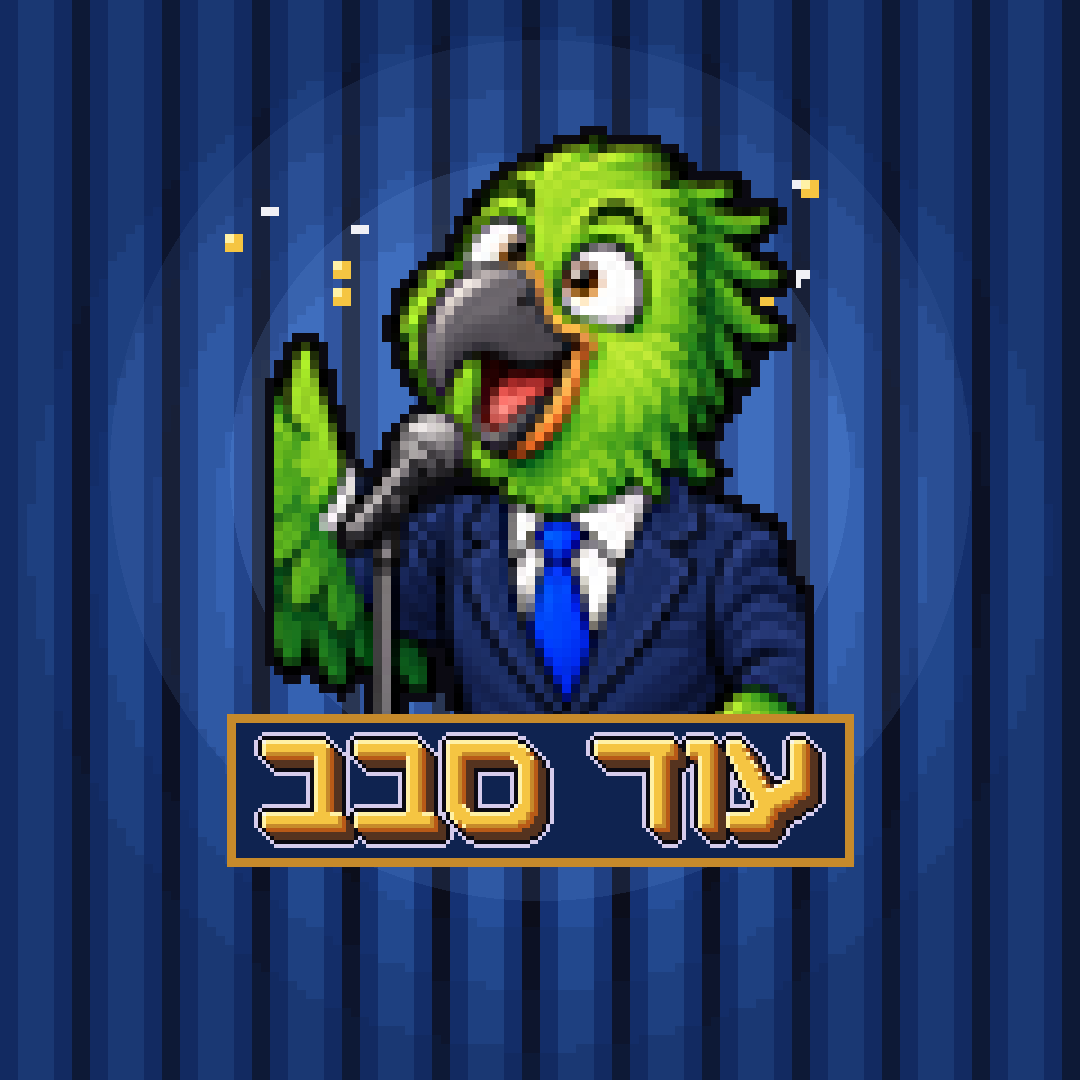
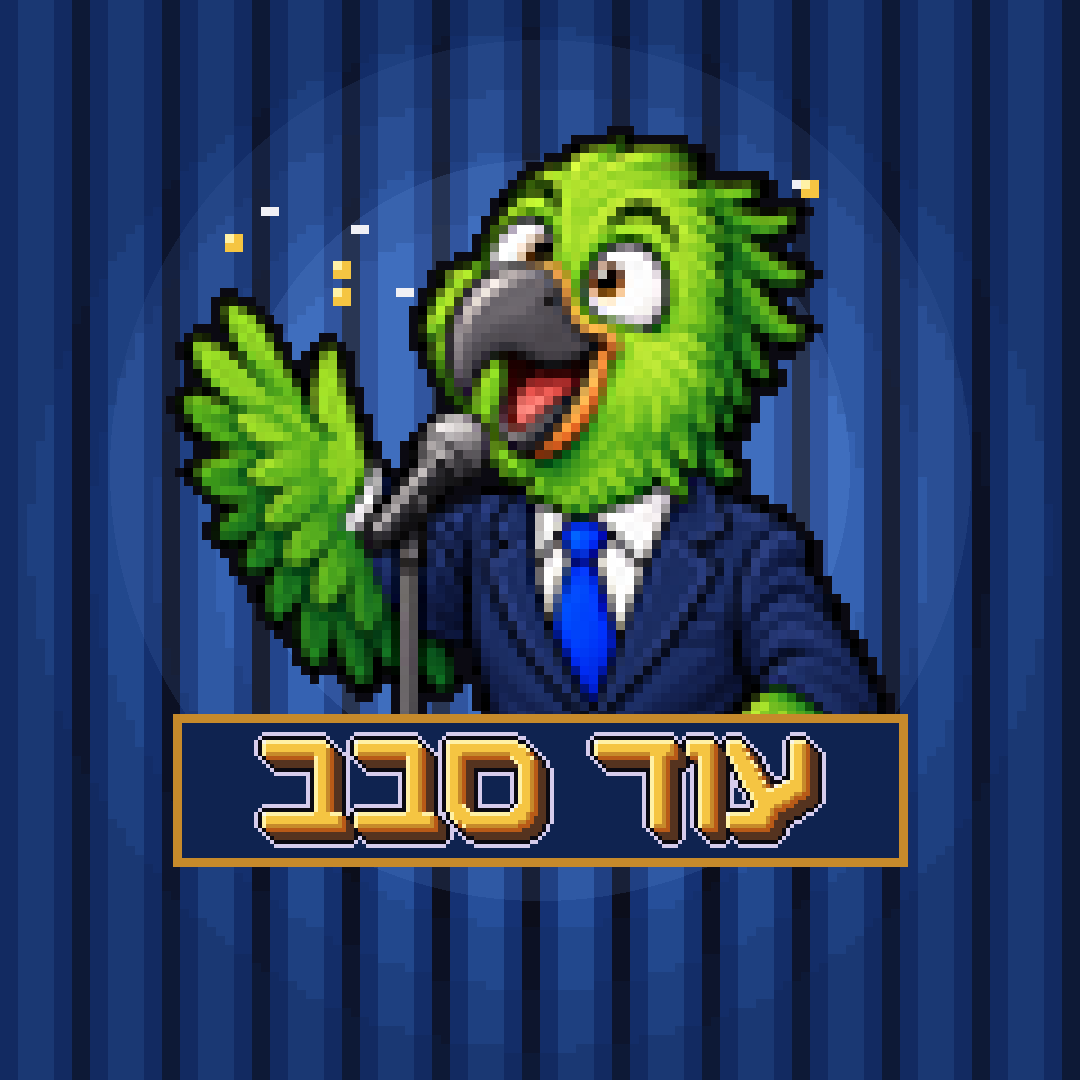
feat(od-sevev): HD Instagram profile picture (option b, 2160 px)
Dubi at the ref's full detail instead of the 9-px grid, the whole raised
wing in frame, and a wider nameplate that hides the sleeve's crop edge.

Claude-Session: https://claude.ai/code/session_01LZ93jp6cYK3W5RcJrFR77Z

Changed region(s): [[0.1528, 0.0917, 0.8556, 0.825], [0.1528, 0.6417, 0.2444, 0.825]]

diff --git a/store/instagram/src/profile.py b/store/instagram/src/profile.py
@@ -87,13 +87,27 @@ def center(im, layer, cy):
     im.alpha_composite(layer, ((N - layer.width) // 2, int(cy - layer.height / 2)))
 
 
-def dubi_bust(height):
-    """Dubi's head and shoulders from the ref, glow dropped, snapped to the art-pixel grid."""
+def dubi_bust(height, detail=False):
+    """Dubi's head and shoulders from the ref, glow dropped, snapped to the art-pixel grid.
+
+    detail=True keeps the ref's own drawing (no snap to the 9-px grid) for the HD export."""
     ref = Image.open(os.path.join(ROOT, "creative-pack", "art", "refs", "dubi.png")).convert("RGBA")
-    bust = ref.crop((190, 60, 900, 900))
+    bust = ref.crop((25, 60, 1000, 900))  # whole raised wing and far shoulder, no hard crop edge
     a = bust.getchannel("A").point(lambda v: 255 if v > 200 else 0)
     bust.putalpha(a)
     w = round(bust.width * height / bust.height)
+    if detail:
+        big = bust.resize((w, height), Image.LANCZOS)
+        big.putalpha(big.getchannel("A").point(lambda v: 255 if v > 128 else 0))
+        t = max(2, PX // 3)  # dark outline, a third of an art px thick
+        out = Image.new("RGBA", (w + 2 * t, height + 2 * t), (0, 0, 0, 0))
+        sil = Image.new("RGBA", big.size, (11, 10, 18, 255))
+        sil.putalpha(big.getchannel("A"))
+        for dx in range(0, 2 * t + 1, t):
+            for dy in range(0, 2 * t + 1, t):
+                out.alpha_composite(sil, (dx, dy))
+        out.alpha_composite(big, (t, t))
+        return out
     small = bust.resize((w // PX * 1 or 1, height // PX), Image.LANCZOS)
     small.putalpha(small.getchannel("A").point(lambda v: 255 if v > 128 else 0))
     # 1-art-px dark outline so the bird reads on the curtain at 110 px
@@ -116,17 +130,20 @@ def option_a():
     return im
 
 
-def option_b():
-    """Dubi the parrot, mid-heckle, with the wordmark as his nameplate."""
+def option_b(detail=False):
+    """Dubi the parrot, mid-heckle, with the wordmark as his nameplate.
+
+    Layout is in 1080 units and scales with N, so the HD export is the same picture."""
+    k = N / 1080
     im = curtain()
-    im = vignette(spotlight(im, N / 2, 470, 430), 150)
-    im = confetti(im, 3, (200, 170, 880, 330), 18)
-    center(im, dubi_bust(630), 450)
-    plate = spr("wordmark.png", 4)
+    im = vignette(spotlight(im, N / 2, 470 * k, 430 * k), 150)
+    im = confetti(im, 3, tuple(int(v * k) for v in (200, 170, 880, 330)), 18)
+    center(im, dubi_bust(int(630 * k), detail), 450 * k)
+    plate = spr("wordmark.png", 4 * PX // 9)
     # a night plate under the wordmark so it never fights the suit
     d = ImageDraw.Draw(im)
-    pw, ph = plate.width + PX * 6, plate.height + PX * 4
-    py = 790
+    pw, ph = plate.width + PX * 18, plate.height + PX * 4  # wide enough to hide the sleeve cut
+    py = int(790 * k)
     box = ((N - pw) // 2, py - ph // 2, (N + pw) // 2, py + ph // 2)
     d.rectangle(box, fill=GOLD_SH)
     d.rectangle((box[0] + PX, box[1] + PX, box[2] - PX, box[3] - PX), fill=NIGHT + (255,))
@@ -165,6 +182,10 @@ def main():
     for name, im in opts:
         im.convert("RGB").save(os.path.join(OUT, f"profile-{name[0]}.png"))
     circle_preview(opts).convert("RGB").save(os.path.join(OUT, "profile-preview.png"))
+    # the chosen one (b), at 2160 with Dubi at the ref's full detail
+    global N, PX
+    N, PX = 2160, 18
+    option_b(detail=True).convert("RGB").save(os.path.join(OUT, "profile-b-hd.png"))
 
 
 if __name__ == "__main__":
